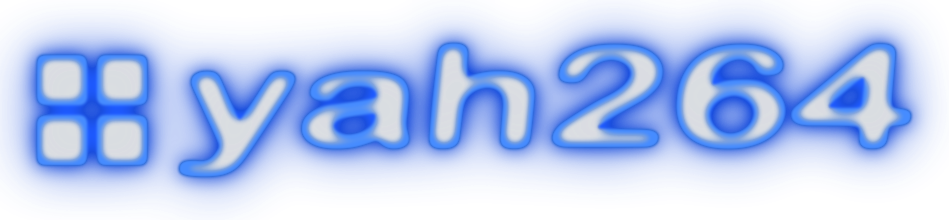
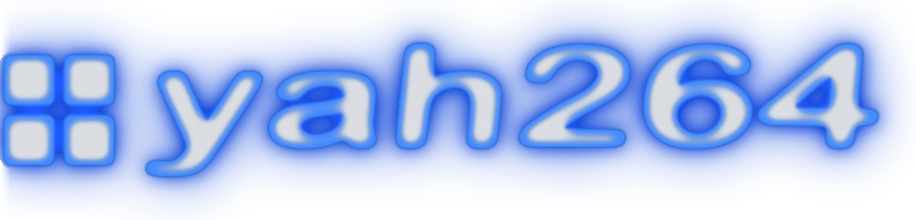
README header: the blocks sit on the text's left edge
The image no longer reserves margin for the glow on its left. It starts
where the blocks' rim does, so the mark lines up with the paragraphs
below, and the halo on that side fades out over a few pixels instead of
being cut. 916x220, shown at 458 wide.

diff --git a/README.md b/README.md
@@ -1,6 +1,6 @@
 <picture>
   <source media="(prefers-color-scheme: dark)" srcset="assets/yah264-chrome-blocks-dark.png">
-  <img alt="yah264" src="assets/yah264-chrome-blocks-light.png" width="474">
+  <img alt="yah264" src="assets/yah264-chrome-blocks-light.png" width="458">
 </picture>
 
 ## What
